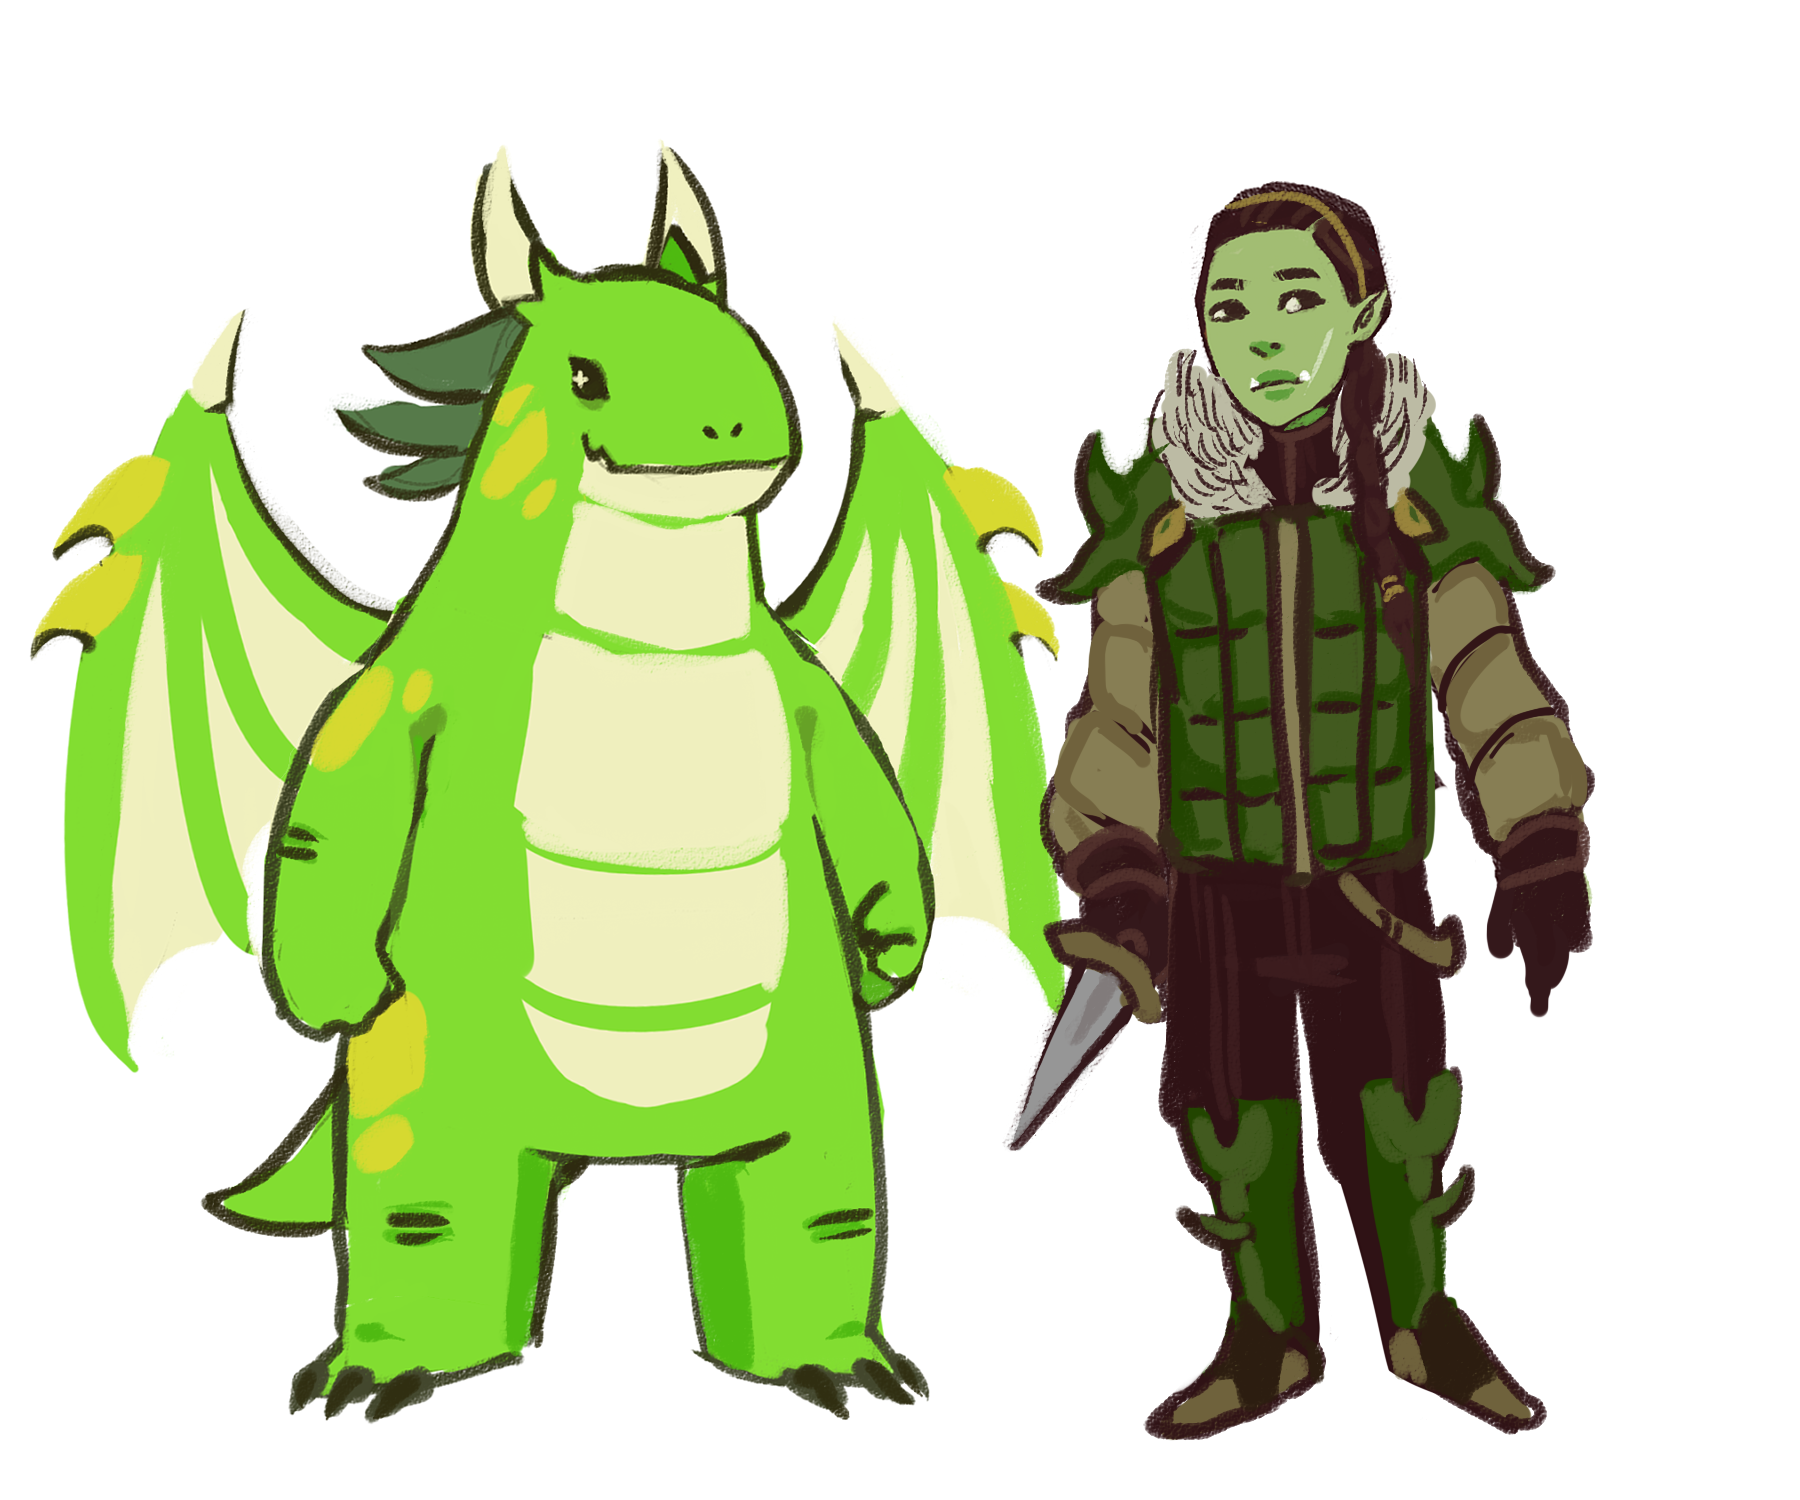
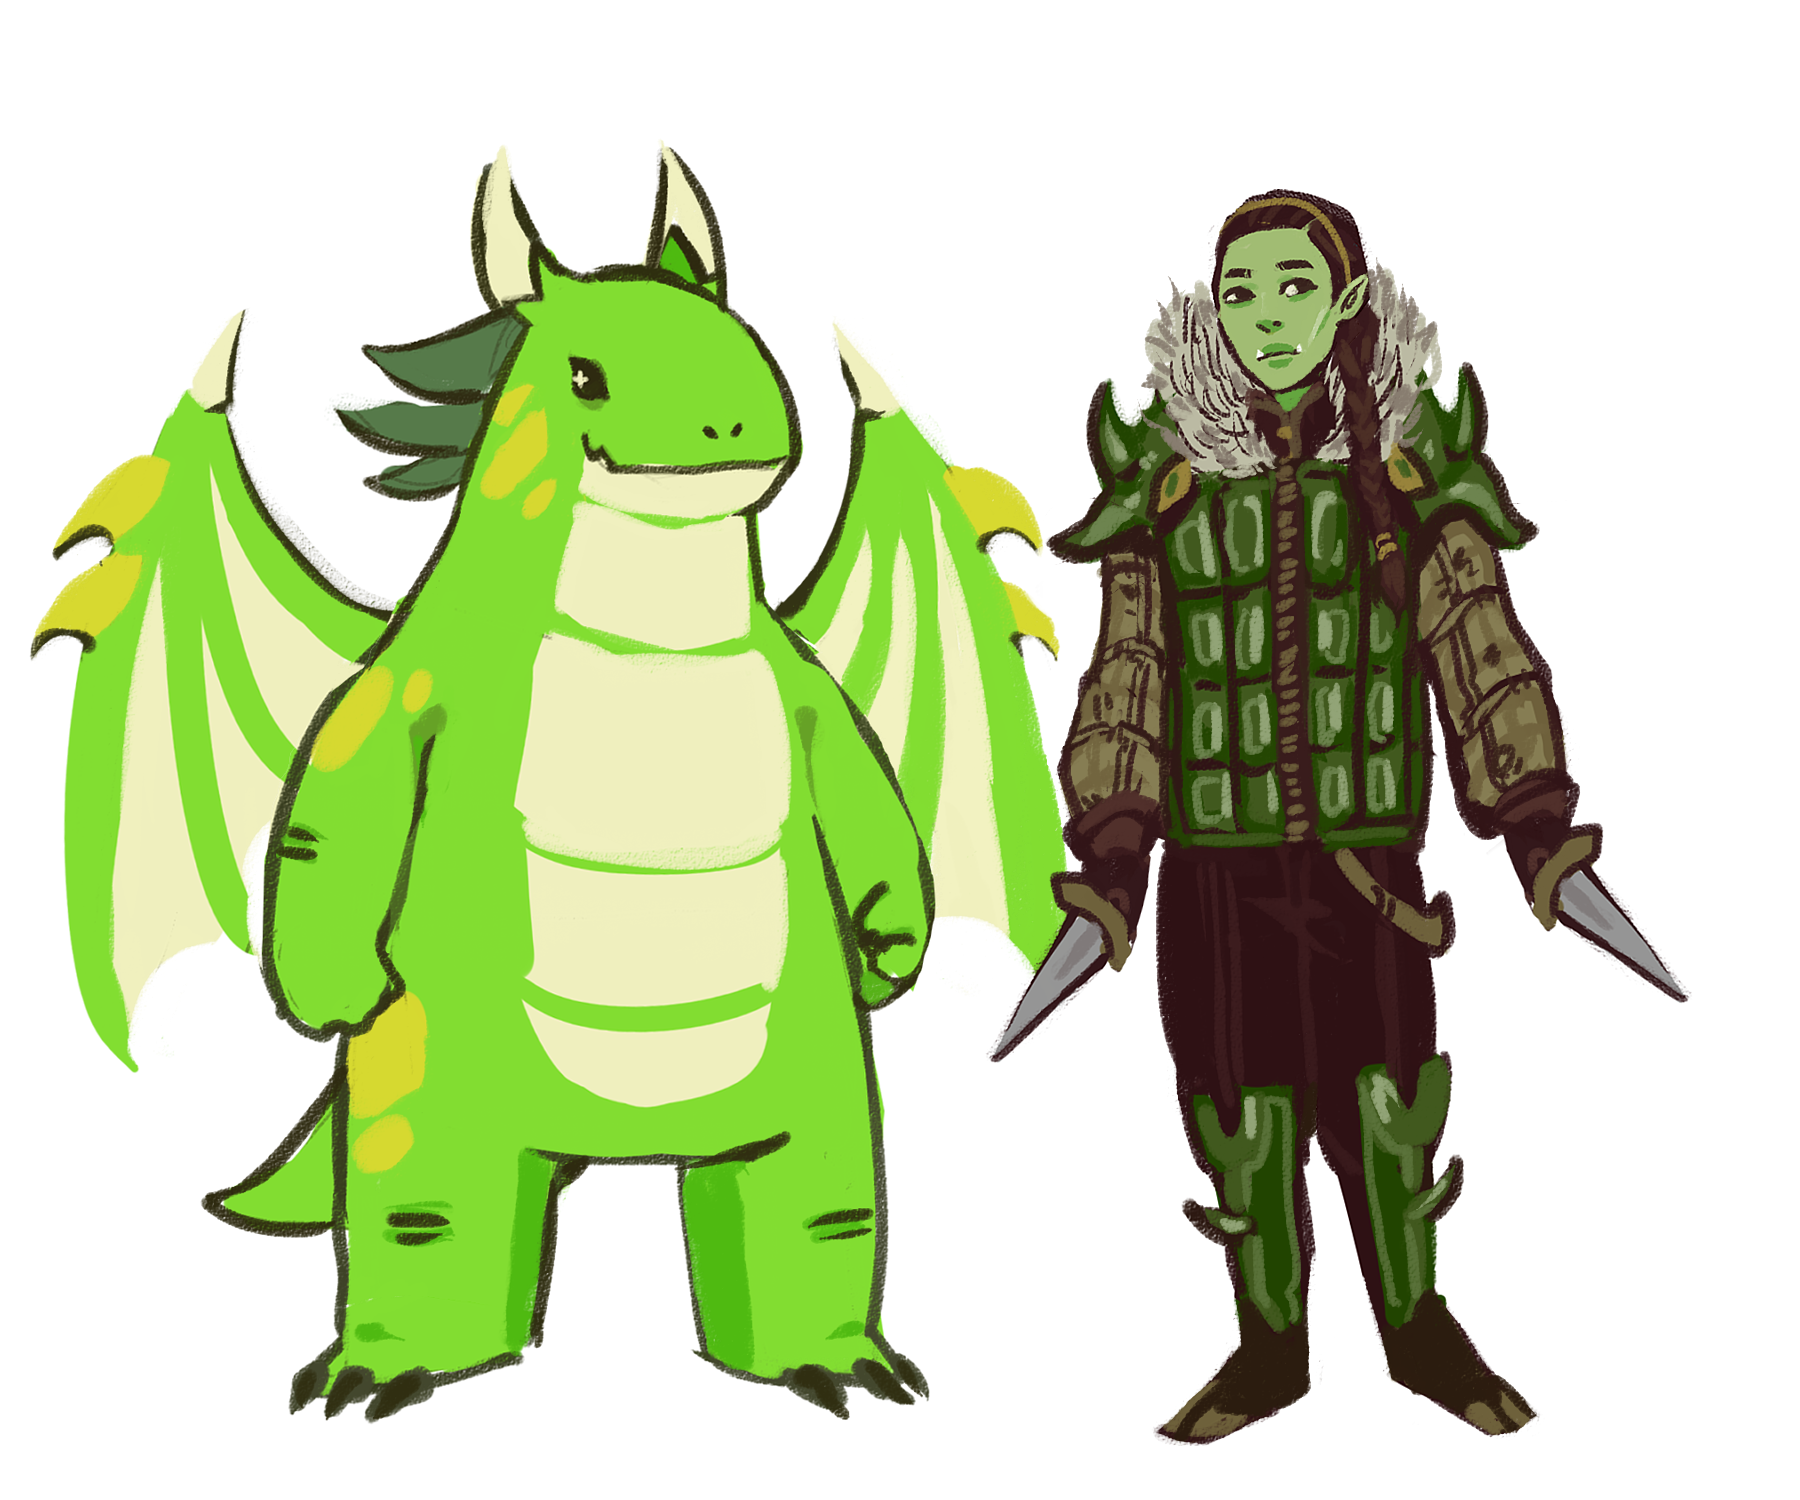
Updated some art from the other website. Also, corrected a typo on Saves.

Changed region(s): [[0.5289, 0.1227, 0.9333, 0.9813]]

diff --git a/Saves.html b/Saves.html
@@ -107,7 +107,7 @@
 						<ul> <li>Resisting an enchantment or charm (very common type of spell to resist!)</li>
 						</ul>
 
-						<h4> A strength saving throw might be...</h4>
+						<h4> A charisma saving throw might be...</h4>
 						<ul> <li>Resisting possession from a ghost or other force</li>
 									<li>Resisting the power of a personality</li>
 						</ul>
